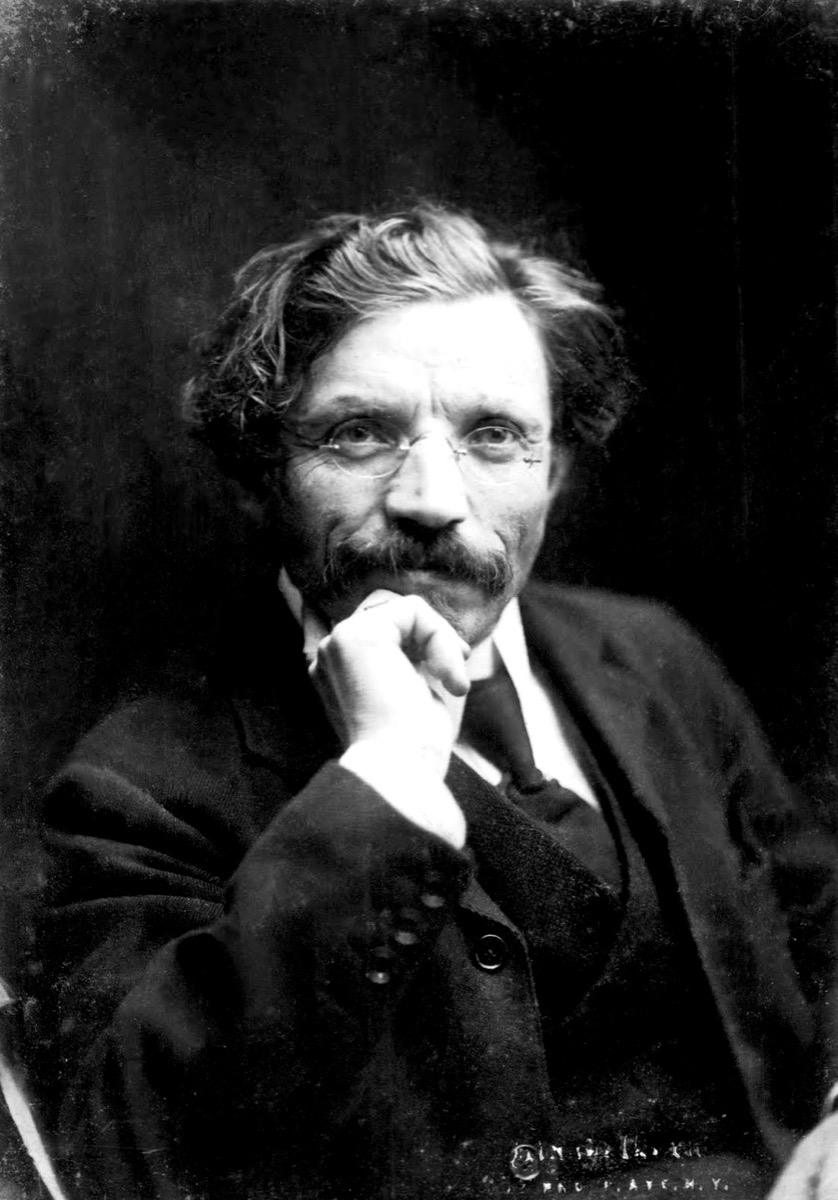
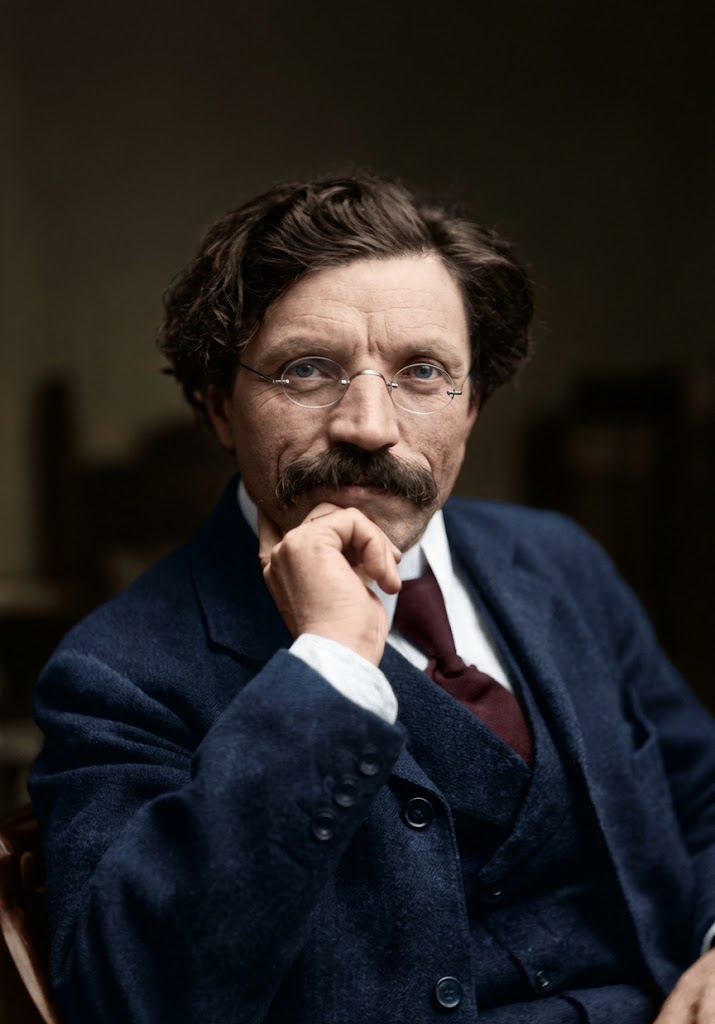
updates

diff --git a/docs/CANDIDATES.md b/docs/CANDIDATES.md
@@ -38,6 +38,16 @@ Facts in Notes are **unverified** unless a source is named: check each against t
 | Амвросій Бучма | 1891–1957 | Actor (performing-arts) | | film pioneers (idea) | Owner suggestion 2026-10-31. «Березіль» theatre; VUFKU silent films |
 | Петро Григоренко | 1907–1987 | General, human rights activist (civic) | 🌍 | dissidents (idea) | Owner suggestion 2026-10-31. Soviet major general turned dissident; founding member of the Ukrainian Helsinki Group; defended the Crimean Tatars; stripped of citizenship in 1978, died in New York |
 | Роман Грищенко | | Commander (defenders) | 🟢 | kharkiv-counteroffensive | Owner request 2026-10-31 (Kharkiv counteroffensive list, from a chatbot). Colonel; formed the 127th Kharkiv territorial defence brigade in March 2022 and commanded it in the defence of Kharkiv (Укрінформ interview, 27 Oct 2022; en.wikipedia); Order of Bohdan Khmelnytskyi III class (2022); governor of Sumy oblast in 2020. Check the brigade's part in the September 2022 offensive (the border villages) before labelling |
+| Артем Ілюхін | | Commander (defenders) | 🟢 | bakhmut | Owner request 2026-10-31 (Bakhmut list, from a chatbot). Colonel, commander of the 4th National Guard brigade «Рубіж»; defended Bakhmut with the brigade; at the front since 2014 (Luhansk airport, Debaltseve, Marinka, Mariupol). Only en.wikipedia so far: find Ukrainian sources |
+| Петро Кузик | | Battalion commander (defenders) | 🟢 | bakhmut | Owner request 2026-10-31 (Bakhmut list, from a chatbot) (listed as «Олексій Свобода»). Commander of the «Свобода» battalion of the «Рубіж» brigade, on the Bakhmut direction for over seven months in 2023 (Українська правда interview, Oct 2023; Радіо Свобода). Former Kyiv city councillor: public role only |
+| Олександр Ябчанка | | Officer, author (defenders) | 🟢 | bakhmut | Owner request 2026-10-31 (Bakhmut list, from a chatbot). Senior lieutenant of the 67th brigade, «Гонор» company of the «Вовки Да Вінчі» battalion, which held the last road to Bakhmut (Радіо Свобода); author of «Жмур», stories from a dugout on that road; later head of the battalion's ground robotics service (Radio NV) |
+| Олександр Ширшин | | Officer (defenders) | 🟢 | bakhmut? | Owner request 2026-10-31 (Bakhmut list, from a chatbot). Hero of Ukraine (Еспресо); UAV operator and platoon commander in the 80th air assault brigade, later a battalion commander in the 47th, who resigned in May 2025 over "senseless orders" (Zaxid.net). The 80th fought at Bakhmut and Klishchiivka, but no source places him there: check before labelling |
+| Сергій Колодій | –2014 | Company commander (defenders) | | donetsk-airport | Owner request 2026-10-31 (Donetsk airport list, from a chatbot). Captain, commander of the 5th company of the 93rd brigade at the airport, where he was killed; Hero of Ukraine posthumously (Кабмін, 2016; Радіо Свобода; ArmiiaInform). Check the date of death and the decree |
+| Олександр Василенко («Тополь») | | Officer (defenders) | 🟢 | donetsk-airport | Owner request 2026-10-31 (Donetsk airport list, from a chatbot), described as deputy commander of the 90th battalion. Sources: former deputy commander of the 93rd brigade who in effect commanded the old terminal in its last days; heads the ATO veterans' union of Rivne oblast (Суспільне Рівне). Award not confirmed |
+| Андрій Гречанов («Рахман») | | Intelligence officer (defenders) | 🟢 | donetsk-airport | Owner request 2026-10-31 (Donetsk airport list, from a chatbot). Major, head of intelligence of the 81st brigade; defended the airport; captured on 30 July 2015 and freed on 30 November 2015 on the 18th attempt (LB.ua, ArmiiaInform). Award not confirmed |
+| Андрій Гаврилюк («Бур») | 1980–2015 | Soldier (defenders) | | donetsk-airport | Owner request 2026-10-31 (Donetsk airport list, from a chatbot). Senior gunner of the 90th battalion, 81st brigade, from Kyiv; killed at the airport on 21 January 2015 (Книга пам'яті, ArmiiaInform). Captured and killed by the militants: state it plainly, no video or graphic detail. The "new terminal blast" claim is not confirmed |
+| Олексій Оцерклевич («Купол») | | Officer (defenders) | 🟢 | donetsk-airport | Owner request 2026-10-31 (Donetsk airport list, from a chatbot). Deputy commander of the 1st battalion of the 93rd brigade at the airport; known for a rotation carried out without a shot; Order of Bohdan Khmelnytskyi III class; head of the State Protection Department from 2019 (president.gov.ua, LIGA). Later a major general: public role only |
+| Руслан Боровик («Багдад») | | Grenadier, photographer (defenders) | 🟢 | donetsk-airport | Owner request 2026-10-31 (Donetsk airport list, from a chatbot), described as 95th brigade. Sources: a grenadier of the 90th battalion, at the airport twice; his photobook of the airport was presented in Kyiv (Радіо Свобода). Award not confirmed |
 
 ## Needs a decision
 
@@ -56,12 +66,21 @@ Facts in Notes are **unverified** unless a source is named: check each against t
 | Антон Радько («Берсерк») | | Defender (defenders) | 🟢 | Owner request 2026-10-16: "serviceman of the 3rd Separate Assault Brigade". No article or reputable coverage found (uk.wikipedia, 2026-10-16). Owner: a link? |
 | «Віхор» | | Defender (defenders) | | Owner request 2026-10-16: "SSO fighter". Call sign only, nothing found. Owner: who is he (name, a link)? Recommend dropping |
 | Софія Зерова | | Zerov's wife (literature) | 👩 | Owner suggestion 2026-10-31, described as the muse of the neoclassicists whose Kyiv home was the group's meeting place. A private figure with no public deeds of her own found so far; better mentioned in Микола Зеров's profile. Recommend dropping |
-| Юрій Федоренко («Ахіллес») | | Drone commander (defenders) | 🟢 | Owner request 2026-10-31 (Kharkiv counteroffensive list, from a chatbot). Commanded the «Ахіллес» strike-drone battalion of the 92nd brigade, which became the 429th unmanned systems regiment in January 2025 (texty.org.ua, ArmiiaInform). His media profile is from the 2024 Kharkiv fighting; no source found for his own part in September 2022. Add as a drone commander, without the collection? |
+| Юрій Федоренко («Ахіллес») | | Drone commander (defenders) | 🟢 | Owner request 2026-10-31 (Kharkiv counteroffensive list, from a chatbot). Commanded the «Ахіллес» strike-drone battalion of the 92nd brigade, which became the 429th unmanned systems regiment in January 2025 (texty.org.ua, ArmiiaInform). His media profile is from the 2024 Kharkiv fighting; no source found for his own part in September 2022. Add as a drone commander, without the collection? Also on the owner's Bakhmut list (2026-10-31): no source for that either |
 | Максим Жорін | | Commander (defenders) | 🟢 ⚖ | Owner request 2026-10-31 (Kharkiv counteroffensive list, from a chatbot). Commander of the Azov regiment (2016–17), later deputy commander of the 3rd Assault Brigade. Sources cover his 2024 Kharkiv commentary, not the September 2022 offensive. Azov's early far-right ties: needs a debates section. Add? |
-| Андрій Білецький | | Commander (defenders) | 🟢 ⚖ | Owner request 2026-10-31 (Kharkiv counteroffensive list, from a chatbot). Founder of Azov, commander of the 3rd Assault Brigade (formed 2023, so not in the 2022 offensive); MP 2014–19. Far-right past: needs a debates section. Add, and if so, not for this collection? |
+| Андрій Білецький | | Commander (defenders) | 🟢 ⚖ | Owner request 2026-10-31 (Kharkiv counteroffensive list, from a chatbot). Founder of Azov, commander of the 3rd Assault Brigade (formed 2023, so not in the 2022 offensive); MP 2014–19. Far-right past: needs a debates section. Add, and if so, not for this collection? Also on the owner's Bakhmut list (2026-10-31): the 3rd Assault Brigade fought at Klishchiivka and Andriivka in autumn 2023, after the city fell in May 2023, so outside `bakhmut` (August 2022 - May 2023) |
 | Денис Ярославський | | Reconnaissance commander (defenders) | 🟢 ⚖ | Owner request 2026-10-31 (Kharkiv counteroffensive list, from a chatbot). Known for his May 2024 statements on the missing fortifications at Vovchansk (Радіо Свобода, НВ), not for September 2022. Detained in 2017 as a police chief in Kyiv oblast and acquitted in 2024 (low-quality sources only). Recommend dropping |
 | Олександр Погребиський | | Veteran, Kyiv city councillor (civic) | 🟢 | Owner request 2026-10-31 (Kharkiv counteroffensive list, from a chatbot), described as a 46th brigade soldier. Found only as a veteran of the Joint Forces Operation, volunteer and Kyiv city councillor (Еспресо); no source ties him to the 46th brigade or Kharkiv. Current partisan politician (Editorial notes). Recommend dropping |
 | Артем Карякін («Східний») | | Artillery spotter (defenders) | 🟢 | Owner request 2026-10-31 (Kharkiv counteroffensive list, from a chatbot), described as an aerial scout in the Kharkiv offensive. Sources: an artillery spotter from Stakhanov who passed targets from occupied Luhansk oblast for about eight years, then served in Donetsk oblast (Українська правда. Життя, УНІАН). No tie to Kharkiv found. Add as a defender, without the collection? |
+| Павло Паліса («Хантер») | | Commander (defenders) | 🟢 | Owner request 2026-10-31 (Bakhmut list, from a chatbot). Commanded the 93rd brigade «Холодний Яр» in 2023–24 and held the city itself with Півненко (texty.org.ua, Радіо Свобода). Deputy head of the President's Office since November 2024: current official (Editorial notes) |
+| Олександр Півненко | | Commander (defenders) | 🟢 | Owner request 2026-10-31 (Bakhmut list, from a chatbot). Commanded the 3rd National Guard brigade «Спартан» at Bakhmut; Hero of Ukraine (March 2023); commander of the National Guard since 8 July 2023 (Українська правда, Інтерфакс-Україна). Serving leader (Editorial notes) |
+| Андрій Гнатов | | Commander (defenders) | 🟢 | Owner request 2026-10-31 (Bakhmut list, from a chatbot). Led the defence of Bakhmut from spring 2023 (Ministry of Defence, via texty.org.ua); Chief of the General Staff since March 2025 (Decree 170/2025, Мілітарний). Serving leader (Editorial notes) |
+| Ігор Луценко | | Aerial scout (defenders) | 🟢 | Owner request 2026-10-31 (Bakhmut list, from a chatbot). Aerial scout of the 72nd brigade from 24 February 2022, instructor from 2023; founder of the Aerial Reconnaissance Support Centre (2015); MP 2014–19 («Батьківщина») (LB.ua). Sources tie him to Bakhmut only indirectly. Add, and for which collection? |
+| Мирослав Гай | | Soldier, volunteer (civic) | 🟢 | Owner request 2026-10-31 (Bakhmut list, from a chatbot). Found as a soldier, actor and head of the «Мир та Ко» charity (УНІАН author page); nothing ties him to Bakhmut. Recommend dropping |
+| Максим Миргородський («Майк») | | Commander (defenders) | 🟢 | Owner request 2026-10-31 (Donetsk airport list, from a chatbot). Commander of the 1st battalion of the 79th brigade at Sloviansk, the airport and Debaltseve; first full holder of the Order of Bohdan Khmelnytskyi (III and II class 2014, I class 25 April 2015; Gazeta.ua); commander of the Air Assault Forces from 2021 (Decree 346/2021). Senior serving general (Editorial notes). Fits `donetsk-airport` |
+| Андрій Шараськін («Богема») | | Volunteer commander (defenders) | 🟢 | Owner request 2026-10-31 (Donetsk airport list, from a chatbot). Commanded a company of the Ukrainian Volunteer Corps at the airport from late September to 20 October 2014; a prototype of a hero of the film «Кіборги» (Українська правда. Життя). MP since 2020 («Голос»): current partisan politician (Editorial notes). Fits `donetsk-airport` |
+| Дмитро Ярош | b. 1971 | Volunteer commander (defenders) | 🟢 ⚖ | Owner request 2026-10-31 (Donetsk airport list, from a chatbot). Leader of «Правий сектор» and the Volunteer Corps; wounded at the airport in January 2015 (LIGA). Not a Hero of Ukraine, as the list claims; Order of Bohdan Khmelnytskyi III class (2016). Former MP; far-right movement: needs a debates section. Add? |
+| Микола Тишик | | Tank gunner (defenders) | 🟢 | Owner request 2026-10-31 (Donetsk airport list, from a chatbot), described as a 51st brigade tanker at the airport in September 2014. The only source (Kyiv Post) has him stopping three tanks at a Donbas checkpoint on 24 August, not at the airport. Add as a defender, without the collection? |
 | Микола Бажан | 1904–1983 | Poet, translator (literature) | | Owner suggestion 2026-10-31 for `neoclassicists` (started as a futurist, influenced by the neoclassicists). Also a Soviet-establishment figure: deputy head of the Council of Ministers of the Ukrainian SSR, Stalin Prizes (see Editorial notes, and Малишко left out of the sixtiers). Add? |
 | Катерина Мешко | | OUN (statehood) | 👩 | Owner suggestion 2026-10-31, described as an OUN figure, UHVR member and organizer of the OUN underground in southern and eastern Ukraine (Kryvyi Rih, Dnipropetrovsk). No such person is known; possibly a mix-up with Оксана Мешко (has a profile). Owner: who is meant (a link)? |
 | «Шаман» | | Defender (defenders) | 🟢 | Owner request 2026-10-16: commander of the HUR special unit «Шаманбат». The unit has a uk.wikipedia article, but the commander's identity is not established in reputable sources. Profile only with a confirmed name; recommend dropping for now |

diff --git a/src/content/people/uk/sholom-aleikhem.md b/src/content/people/uk/sholom-aleikhem.md
@@ -23,6 +23,7 @@ image:
   author: "Невідомий фотограф"
   license: "Public domain"
   source_url: "https://commons.wikimedia.org/wiki/File:Sholem_Aleichem_1907.jpg"
+  ai_edit: colorized
 key_accomplishments:
   - "Цикл оповідань «Тев'є-молочник» (1894–1914)"
   - "Повість «Хлопчик Мотл» і автобіографічний роман «З ярмарку»"
